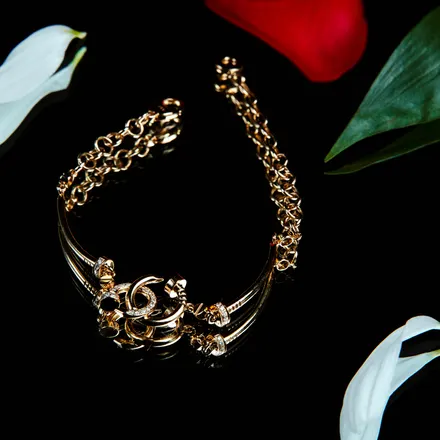
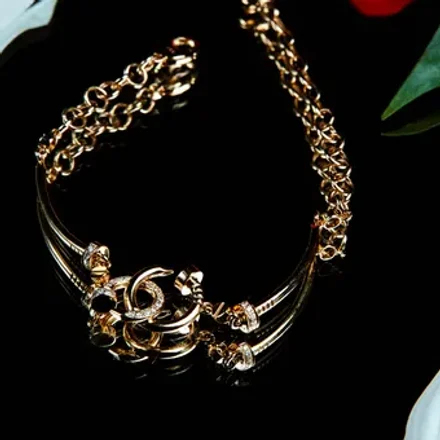
Polish /what-we-buy category images (incl. silver tab) and tighten /how-sell-gold form.
Match Figma silver labels/assets, refine gold crops, narrow kit form to 460px, and link Scrap Gold Calculator to /gold-calculator.

diff --git a/front/src/components/whatWeBuy/WhatWeBuyCategories.vue b/front/src/components/whatWeBuy/WhatWeBuyCategories.vue
@@ -3,30 +3,30 @@
 		<div class="wwb-categories__inner">
 			<h1 id="wwb-categories-title" class="wwb-categories__title">What We Buy</h1>
 
-			<div class="wwb-categories__panel">
-				<div class="wwb-categories__tabs" role="tablist" aria-label="Metal type">
-					<button
-						type="button"
-						role="tab"
-						class="wwb-categories__tab"
-						:class="{ 'wwb-categories__tab--active': tab === 'gold' }"
-						:aria-selected="tab === 'gold'"
-						@click="tab = 'gold'"
-					>
-						GOLD
-					</button>
-					<button
-						type="button"
-						role="tab"
-						class="wwb-categories__tab"
-						:class="{ 'wwb-categories__tab--active': tab === 'silver' }"
-						:aria-selected="tab === 'silver'"
-						@click="tab = 'silver'"
-					>
-						SILVER
-					</button>
-				</div>
+			<div class="wwb-categories__tabs" role="tablist" aria-label="Metal type">
+				<button
+					type="button"
+					role="tab"
+					class="wwb-categories__tab"
+					:class="{ 'wwb-categories__tab--active': tab === 'gold' }"
+					:aria-selected="tab === 'gold'"
+					@click="tab = 'gold'"
+				>
+					GOLD
+				</button>
+				<button
+					type="button"
+					role="tab"
+					class="wwb-categories__tab"
+					:class="{ 'wwb-categories__tab--active': tab === 'silver' }"
+					:aria-selected="tab === 'silver'"
+					@click="tab = 'silver'"
+				>
+					SILVER
+				</button>
+			</div>
 
+			<div class="wwb-categories__panel">
 				<ul class="wwb-categories__grid" role="list">
 					<li
 						v-for="item in activeItems"
@@ -36,6 +36,7 @@
 					>
 						<img
 							class="wwb-categories__img"
+							:class="item.panClass"
 							:src="item.src"
 							:alt="item.label"
 							width="220"
@@ -62,27 +63,29 @@ const tab = ref('gold')
 
 const goldItems = [
 	{ slug: 'rings', label: 'Rings', src: '/images/what-we-buy/rings.webp' },
-	{ slug: 'necklaces', label: 'Necklaces', src: '/images/what-we-buy/necklaces.webp' },
-	{ slug: 'earrings', label: 'Earrings', src: '/images/what-we-buy/earrings.webp' },
-	{ slug: 'bracelets', label: 'Bracelets', src: '/images/what-we-buy/bracelets.webp' },
+	{ slug: 'necklaces', label: 'Necklaces', src: '/images/what-we-buy/necklaces.webp?v=focus6' },
+	{ slug: 'earrings', label: 'Earrings', src: '/images/what-we-buy/earrings.webp?v=focus6' },
+	{ slug: 'bracelets', label: 'Bracelets', src: '/images/what-we-buy/bracelets-wide.webp?v=user1' },
 	{ slug: 'pendants', label: 'Pendants', src: '/images/what-we-buy/pendants.webp' },
 	{ slug: 'dentures', label: 'Dentures', src: '/images/what-we-buy/dentures.webp' },
-	{ slug: 'nuggets', label: 'Nuggets', src: '/images/what-we-buy/nuggets.webp' },
-	{ slug: 'granules', label: 'Granules', src: '/images/what-we-buy/granules.webp' },
-	{ slug: 'designer-jewelry', label: 'Designer Jewelry', src: '/images/what-we-buy/designer-jewelry.webp' },
+	{ slug: 'nuggets', label: 'Nuggets', src: '/images/what-we-buy/nuggets.webp?v=focus6' },
+	{ slug: 'granules', label: 'Granules', src: '/images/what-we-buy/granules-wide.webp?v=user1' },
+	{ slug: 'designer-jewelry', label: 'Designer Jewelry', src: '/images/what-we-buy/designer-jewelry.webp?v=focus6' },
 	{ slug: 'luxury-watches', label: 'Luxury Watches', src: '/images/what-we-buy/luxury-watches.webp' },
 	{ slug: 'gold-bars', label: 'Gold Bars', src: '/images/what-we-buy/gold-bars.webp' },
-	{ slug: 'class-rings', label: 'Class Rings', src: '/images/what-we-buy/class-rings.webp' },
+	{ slug: 'class-rings', label: 'Class Rings', src: '/images/what-we-buy/class-rings.webp?v=focus6' },
 ]
 
-/** Silver tab — Figma labels; reuse stock photos until dedicated silver assets exist. */
+/** Silver tab — Figma 695:3647 */
 const silverItems = [
-	{ slug: 's-coins', label: 'Pure Silver Coins', src: '/images/what-we-buy/gold-bars.webp' },
-	{ slug: 's-bars', label: 'Silver Bars', src: '/images/what-we-buy/nuggets.webp' },
-	{ slug: 's-rounds', label: 'Rounds, Bullion', src: '/images/what-we-buy/granules.webp' },
-	{ slug: 's-collectible', label: 'Collectible Coins', src: '/images/what-we-buy/class-rings.webp' },
-	{ slug: 's-1964', label: 'Pre-1964 Coins', src: '/images/what-we-buy/pendants.webp' },
-	{ slug: 's-jewelry', label: 'Silver Jewelry', src: '/images/what-we-buy/bracelets.webp' },
+	{ slug: 's-pure-coins', label: 'Pure Coins', src: '/images/what-we-buy/silver-pure-coins.webp?v=2' },
+	{ slug: 's-collectible', label: 'Collectible Coins', src: '/images/what-we-buy/silver-collectible-coins.webp?v=1' },
+	{ slug: 's-bars', label: 'Bars', src: '/images/what-we-buy/silver-bars.webp?v=1' },
+	{ slug: 's-bullion', label: 'Bullion', src: '/images/what-we-buy/silver-bullion.webp?v=1' },
+	{ slug: 's-rounds', label: 'Rounds', src: '/images/what-we-buy/silver-rounds.webp?v=1' },
+	{ slug: 's-quarters', label: 'Quarters', src: '/images/what-we-buy/silver-quarters.webp?v=1' },
+	{ slug: 's-dimes', label: 'Dimes', src: '/images/what-we-buy/silver-dimes.webp?v=1' },
+	{ slug: 's-half-1964', label: 'Half dollars dated 1964 or older', src: '/images/what-we-buy/silver-half-dollars.webp?v=1' },
 ]
 
 const activeItems = computed(() => (tab.value === 'silver' ? silverItems : goldItems))
@@ -105,7 +108,7 @@ const activeItems = computed(() => (tab.value === 'silver' ? silverItems : goldI
 }
 
 .wwb-categories__title {
-	margin: 0 0 32px;
+	margin: 0 0 28px;
 	text-align: center;
 	font-family: Montserrat, -apple-system, BlinkMacSystemFont, 'Segoe UI', Roboto, sans-serif;
 	font-weight: 700;
@@ -114,21 +117,16 @@ const activeItems = computed(() => (tab.value === 'silver' ? silverItems : goldI
 	color: #000;
 }
 
-.wwb-categories__panel {
-	background: #fff;
-	border: 1px solid #000;
-	border-radius: 8px;
-	padding: 32px 28px 28px;
-	box-sizing: border-box;
-	position: relative;
-}
-
+/* Figma 819:1486 — tabs sit above the white panel, flush to its top edge */
 .wwb-categories__tabs {
 	display: flex;
 	justify-content: center;
-	gap: 0;
-	margin: -32px auto 28px;
+	align-items: stretch;
+	gap: 10px;
+	margin: 0 auto;
 	width: fit-content;
+	position: relative;
+	z-index: 1;
 }
 
 .wwb-categories__tab {
@@ -138,18 +136,33 @@ const activeItems = computed(() => (tab.value === 'silver' ? silverItems : goldI
 	color: #c39e3d;
 	font-family: Montserrat, -apple-system, BlinkMacSystemFont, 'Segoe UI', Roboto, sans-serif;
 	font-weight: 700;
-	font-size: 16px;
-	letter-spacing: 0.04em;
-	padding: 12px 36px;
+	font-size: clamp(1rem, 1.6vw, 20px);
+	letter-spacing: 0.06em;
+	min-width: 160px;
+	min-height: 64px;
+	padding: 16px 44px;
 	cursor: pointer;
-	border-radius: 8px 8px 0 0;
-	margin-bottom: -1px;
+	border-radius: 10px 10px 0 0;
+	line-height: 1.2;
 }
 
 .wwb-categories__tab--active {
 	background: #000;
 	color: #fff;
+	border-color: #000;
+	/* Active tab merges into the white panel */
 	border-bottom-color: #000;
+}
+
+.wwb-categories__panel {
+	background: #fff;
+	border: 1px solid #000;
+	border-radius: 8px;
+	padding: 28px 28px 28px;
+	box-sizing: border-box;
+	position: relative;
+	/* Sit flush under tabs (tabs have no bottom border) */
+	margin-top: -1px;
 }
 
 .wwb-categories__grid {
@@ -172,7 +185,16 @@ const activeItems = computed(() => (tab.value === 'silver' ? silverItems : goldI
 }
 
 .wwb-categories__card--silver {
+	background: #fff;
 	box-shadow: 8px 8px 0 0 #9a9a9a;
+}
+
+.wwb-categories__card--silver .wwb-categories__overlay {
+	color: #000;
+	text-shadow: none;
+	background: linear-gradient(transparent, rgba(255, 255, 255, 0.92));
+	font-size: clamp(0.75rem, 1.35vw, 15px);
+	line-height: 1.25;
 }
 
 .wwb-categories__img {
@@ -181,6 +203,7 @@ const activeItems = computed(() => (tab.value === 'silver' ? silverItems : goldI
 	height: auto;
 	aspect-ratio: 1;
 	object-fit: cover;
+	transform-origin: center center;
 }
 
 .wwb-categories__overlay {
@@ -197,6 +220,7 @@ const activeItems = computed(() => (tab.value === 'silver' ? silverItems : goldI
 	text-shadow: 0 1px 3px rgba(0, 0, 0, 0.65);
 	background: linear-gradient(transparent, rgba(0, 0, 0, 0.72));
 	pointer-events: none;
+	z-index: 1;
 }
 
 .wwb-categories__note {
@@ -206,6 +230,20 @@ const activeItems = computed(() => (tab.value === 'silver' ? silverItems : goldI
 	font-size: 16px;
 	line-height: 1.45;
 	color: #000;
+}
+
+@media (min-width: 992px) {
+	.wwb-categories__tab {
+		min-width: 200px;
+		min-height: 88px;
+		padding: 24px 56px;
+		font-size: 20px;
+	}
+
+	.wwb-categories__tabs {
+		gap: 10px;
+		margin-bottom: 0;
+	}
 }
 
 @media (max-width: 991.98px) {
@@ -219,7 +257,18 @@ const activeItems = computed(() => (tab.value === 'silver' ? silverItems : goldI
 	}
 
 	.wwb-categories__panel {
-		padding: 28px 16px 20px;
+		padding: 20px 16px;
+	}
+
+	.wwb-categories__tabs {
+		gap: 8px;
+		margin-bottom: 0;
+	}
+
+	.wwb-categories__tab {
+		min-width: 120px;
+		min-height: 52px;
+		padding: 12px 28px;
 	}
 }
 </style>

diff --git a/front/src/components/GoldCalculatorSellCtaSection.vue b/front/src/components/GoldCalculatorSellCtaSection.vue
@@ -18,7 +18,14 @@
 						<p class="gc-figma-507-899__p">
 							{{ paragraphFirst }}
 						</p>
-						<p class="gc-figma-507-899__p">
+						<p v-if="isHowSell" class="gc-figma-507-899__p">
+							If you’d like to join the thousands of Gold to Cash patrons, simply get a real-time estimate
+							with our
+							<a class="gc-figma-507-899__link" href="/gold-calculator">Scrap Gold Calculator</a>, then
+							fill out the form to request your free mail-in kit to receive a professional appraisal and
+							fast payment. It’s free, reliable, and risk-free.
+						</p>
+						<p v-else class="gc-figma-507-899__p">
 							{{ paragraphSecond }}
 						</p>
 					</div>
@@ -72,9 +79,6 @@ const paragraphFirst = computed(() => {
 const paragraphSecond = computed(() => {
 	if (isDental.value) {
 		return 'Get an estimate today using our calculator, then request your free appraisal kit to find out your exact payout - fast, secure, and trusted by thousands of sellers nationwide.'
-	}
-	if (isHowSell.value) {
-		return 'If you’d like to join the thousands of Gold to Cash patrons, simply get a real-time estimate with our Scrap Gold Calculator, then fill out the form to request your free mail-in kit to receive a professional appraisal and fast payment. It’s free, reliable, and risk-free.'
 	}
 	return 'Get an estimate in seconds, then request a free appraisal kit for an official offer from Gold To Cash.'
 })
@@ -203,6 +207,17 @@ const hero = computed(() => {
 	font-size: clamp(1rem, 1.8vw, 20px);
 	line-height: 1.2;
 	color: #000;
+}
+
+.gc-figma-507-899__link {
+	color: #c39e3d;
+	font-weight: 600;
+	text-decoration: underline;
+	text-underline-offset: 2px;
+}
+
+.gc-figma-507-899__link:hover {
+	color: #a8842f;
 }
 
 @media (max-width: 991px) {

diff --git a/front/src/components/whatWeBuy/WhatWeBuyProcess.vue b/front/src/components/whatWeBuy/WhatWeBuyProcess.vue
@@ -83,7 +83,7 @@ const steps = [
 
 .wwb-process__grid {
 	display: grid;
-	grid-template-columns: minmax(0, 1fr) minmax(280px, 604px);
+	grid-template-columns: minmax(0, 1fr) minmax(260px, 460px);
 	gap: 48px;
 	align-items: start;
 }
@@ -131,6 +131,12 @@ const steps = [
 	color: #000;
 }
 
+.wwb-process__form-wrap {
+	width: 100%;
+	max-width: 460px;
+	justify-self: end;
+}
+
 .wwb-process__form-card {
 	background: #fff;
 	border-radius: 12px;
@@ -138,6 +144,8 @@ const steps = [
 	padding: 8px 8px 16px;
 	box-sizing: border-box;
 	border: 1px solid #eee;
+	width: 100%;
+	max-width: 460px;
 }
 
 .wwb-process__form-card :deep(.kit-form-title) {
@@ -170,6 +178,13 @@ const steps = [
 	.wwb-process__grid {
 		grid-template-columns: 1fr;
 		gap: 40px;
+	}
+
+	.wwb-process__form-wrap,
+	.wwb-process__form-card {
+		max-width: 460px;
+		justify-self: center;
+		margin: 0 auto;
 	}
 
 	.wwb-process__step-num,

diff --git a/front/src/components/howSellGold/HowSellGoldHero.vue b/front/src/components/howSellGold/HowSellGoldHero.vue
@@ -97,7 +97,7 @@ const steps = [
 
 .hsg-hero__grid {
 	display: grid;
-	grid-template-columns: minmax(0, 1fr) minmax(280px, 604px);
+	grid-template-columns: minmax(0, 1fr) minmax(260px, 460px);
 	gap: 48px;
 	align-items: start;
 }
@@ -150,6 +150,9 @@ const steps = [
 
 .hsg-hero__form-wrap {
 	position: relative;
+	max-width: 460px;
+	width: 100%;
+	margin-left: auto;
 }
 
 .hsg-hero__form-card {
@@ -159,6 +162,8 @@ const steps = [
 	box-shadow: 0 8px 24px rgba(0, 0, 0, 0.12);
 	padding: 8px 8px 16px;
 	box-sizing: border-box;
+	max-width: 460px;
+	width: 100%;
 }
 
 /* Figma 678:2692 — “Request Free Kit” + “Get 10% Bonus” as stacked centered headings */
@@ -204,6 +209,13 @@ const steps = [
 
 	.hsg-hero__steps {
 		gap: 28px;
+	}
+
+	.hsg-hero__form-wrap,
+	.hsg-hero__form-card {
+		max-width: 460px;
+		margin-left: auto;
+		margin-right: auto;
 	}
 }
 </style>
